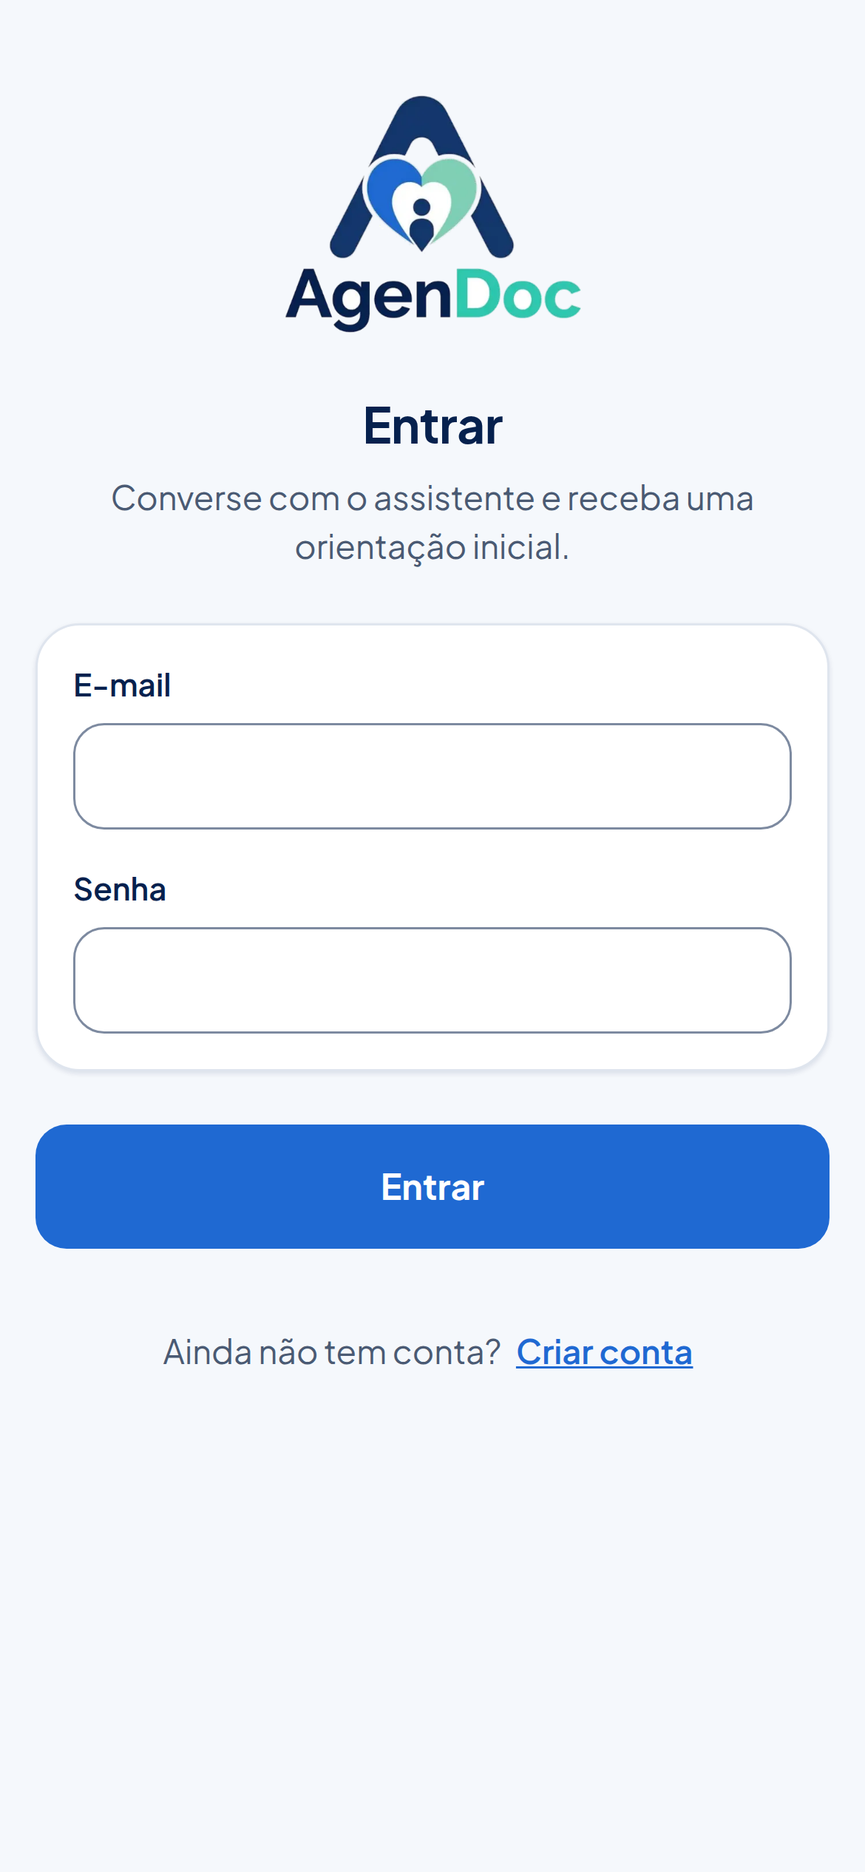
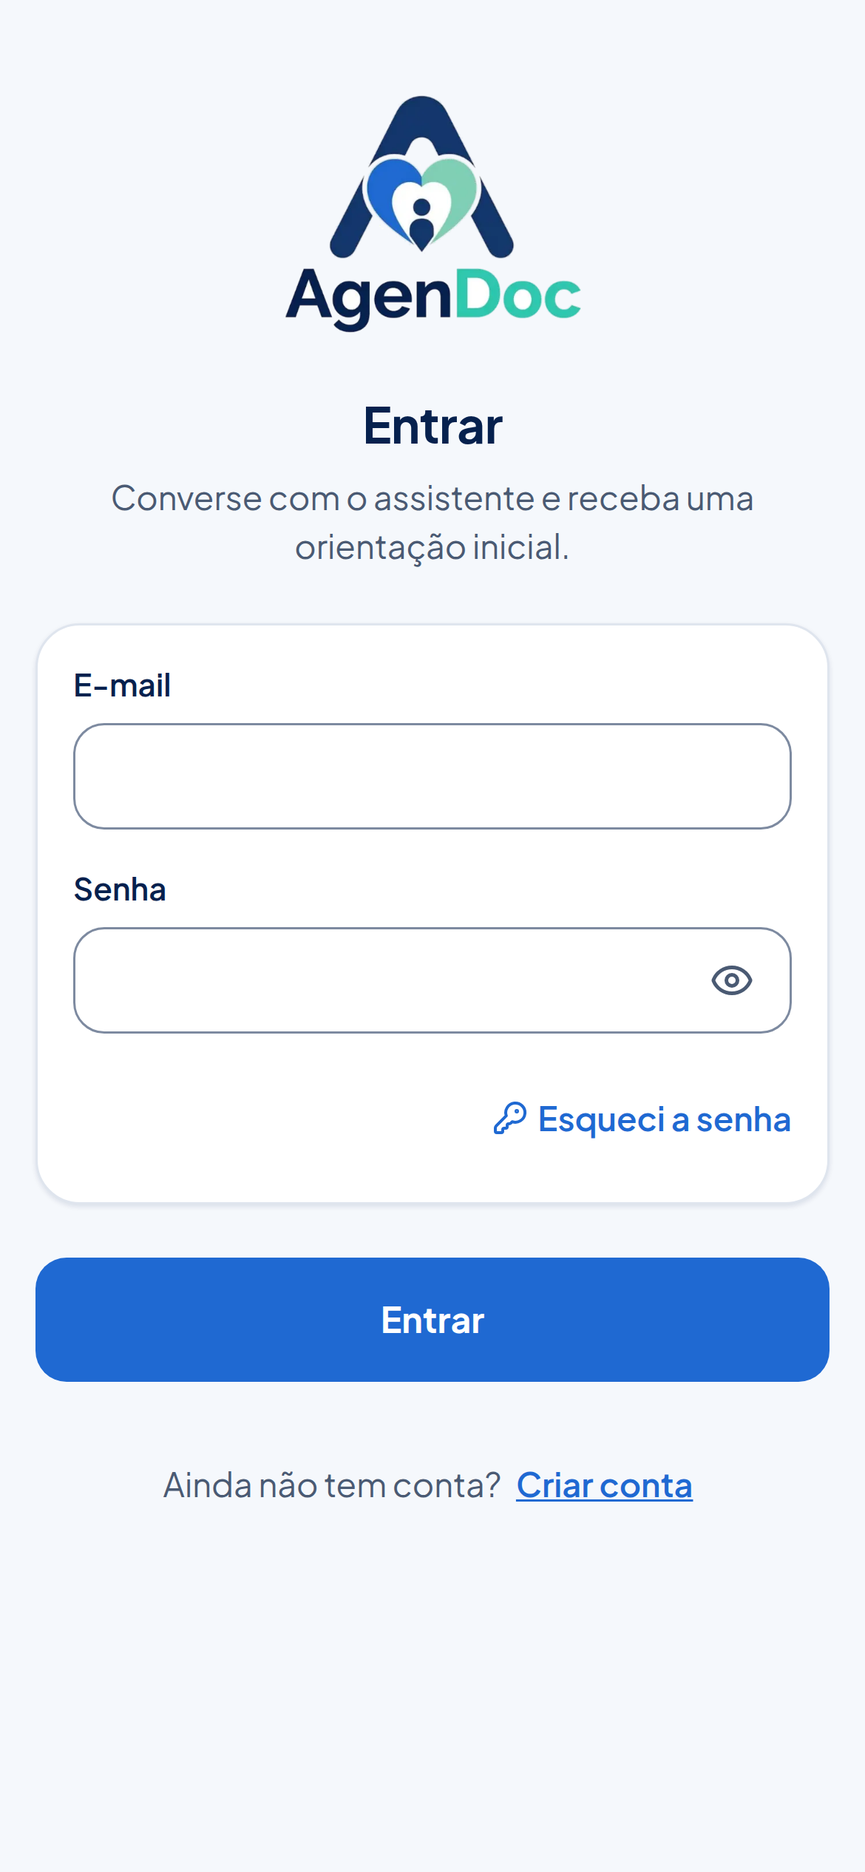
docs: cover part 2 e-mail features in the guide

Changed region(s): [[0.0308, 0.5616, 0.9846, 0.7488], [0.1846, 0.78, 0.8, 0.8112], [0.8308, 0.4992, 0.8615, 0.5304]]

diff --git a/guia/README.md b/guia/README.md
@@ -2,9 +2,9 @@
 
 Tutorial do que o AgenDoc já faz, tela por tela, para quem está chegando no grupo.
 
-- **Situação em 11/11/2026:** MVP (cadastro, login e chat com IA) e **Parte 1: Clínicas e agendamento**, no ar desde 09/11/2026. A Parte 2 (e-mail) está em andamento e ainda não aparece aqui ([roadmap](../roadmap.md)).
+- **Situação em 16/11/2026:** MVP (cadastro, login e chat com IA), **Parte 1: Clínicas e agendamento** (no ar desde 09/11/2026) e **Parte 2: E-mail** (no ar desde 15/11/2026). Próximos passos no [roadmap](../roadmap.md).
 - **Onde testar:** https://agendoc.duckdns.org (veja [Como testar](#como-testar)).
-- **Sobre as imagens:** foram tiradas do app rodando localmente, com os dados de demonstração. As telas do paciente são de celular (390 px, em 3x) e as do painel da clínica são de computador (1440 px, em 2x). Clique em qualquer imagem para abrir em tamanho real.
+- **Sobre as imagens:** foram tiradas do app rodando localmente, com os dados de demonstração. As telas do paciente são de celular (390 px, em 3x) e as do painel da clínica são de computador (1440 px, em 2x). Os e-mails foram capturados no Mailpit, a caixa de e-mail de teste do ambiente local. Clique em qualquer imagem para abrir em tamanho real.
 
 > **Aviso:** o AgenDoc não substitui atendimento profissional. O assistente dá uma orientação inicial: não diagnostica nem prescreve. Todas as clínicas, médicos e avaliações são **fictícios** (por isso o selo "Dados de demonstração").
 
@@ -13,7 +13,7 @@ Tutorial do que o AgenDoc já faz, tela por tela, para quem está chegando no gr
 - [Visão geral](#visão-geral)
 - [Como testar](#como-testar)
 - **Paciente**
-  1. [Cadastro e login](#1-cadastro-e-login)
+  1. [Cadastro, confirmação do e-mail e login](#1-cadastro-confirmação-do-e-mail-e-login)
   2. [Conversas com o assistente](#2-conversas-com-o-assistente)
   3. [Pré-triagem](#3-pré-triagem)
   4. [Emergência](#4-emergência)
@@ -27,6 +27,7 @@ Tutorial do que o AgenDoc já faz, tela por tela, para quem está chegando no gr
   12. [Cancelar](#12-cancelar)
   13. [Avaliar a consulta](#13-avaliar-a-consulta)
   14. [Perfil](#14-perfil)
+  15. [E-mails](#15-e-mails)
 - **Clínica**
   1. [Agenda](#1-agenda)
   2. [Detalhe da consulta](#2-detalhe-da-consulta)
@@ -45,16 +46,17 @@ O AgenDoc ajuda a pessoa a entender **que tipo de médico procurar** e a **marca
 
 | Perfil | Onde | O que faz |
 |---|---|---|
-| **Paciente** | `/chat`, `/consultas`, `/perfil` (layout de celular) | Conversa com o assistente, recebe a pré-triagem, busca clínicas, marca, remarca, cancela e avalia consultas |
+| **Paciente** | `/chat`, `/consultas`, `/perfil` (layout de celular) | Conversa com o assistente, recebe a pré-triagem, busca clínicas, marca, remarca, cancela e avalia consultas, e recebe os avisos e lembretes por e-mail |
 | **Clínica** | `/clinica` (layout de computador, com menu lateral) | Vê a agenda, responde pedidos, cadastra médicos, horários e bloqueios, edita os dados e vê as avaliações |
 
-Depois do login, quem é paciente vai para `/chat` e quem é clínica vai para `/clinica`. Um perfil não acessa as telas do outro.
+Depois do login, quem é paciente vai para `/chat` (ou para `/confirmar-email`, se ainda não confirmou o e-mail) e quem é clínica vai para `/clinica`. Um perfil não acessa as telas do outro.
 
 A jornada completa:
 
 ```mermaid
 flowchart LR
-    A[Cadastro / login] --> B[Chat com o assistente]
+    A[Cadastro / login] --> V[Confirmar e-mail<br/>com o código]
+    V --> B[Chat com o assistente]
     B --> C{Pré-triagem}
     C -- emergência --> D[Ligar 192 e<br/>pronto atendimentos]
     C -- demais casos --> E[Buscar clínicas<br/>mapa e filtros]
@@ -87,7 +89,8 @@ Na tela, os status aparecem como selos: **Confirmada**, **Aguardando a clínica*
 
 **Em produção** (https://agendoc.duckdns.org):
 
-- **Paciente:** crie uma conta em "Criar conta". Não precisa de e-mail real.
+- **Paciente:** crie uma conta em "Criar conta" com um **e-mail que você consegue abrir**: o app só libera depois que você digita o código de 6 dígitos que chega nele (veja o [passo 1](#1-cadastro-confirmação-do-e-mail-e-login)).
+- **Contas de teste de paciente:** `paciente1@demo.agendoc.dev`, `paciente2@demo.agendoc.dev` e `paciente3@demo.agendoc.dev`, já confirmadas. A senha é a mesma para as três e fica só no `.env` da VM; peça a quem cuida do deploy. Antes de apresentar, coloque o seu e-mail no campo **E-mail de envio** do [Perfil](#14-perfil): os e-mails dessas contas vão para lá, e ao marcar uma consulta chega na hora um lembrete de exemplo.
 - **Clínica:** cada clínica de demonstração tem um login `<apelido>@demo.agendoc.dev`. A senha é a mesma para todas e fica só no `.env` da VM (não vai para o git); peça a quem cuida do deploy.
 
 | Login | Clínica | Confirmação |
@@ -107,23 +110,63 @@ Na tela, os status aparecem como selos: **Confirmada**, **Aguardando a clínica*
 
 Dica para a demonstração: marque uma consulta como paciente numa clínica **manual** (ex.: DermaVida, Dermatologista) e depois entre como a clínica para aceitar o pedido.
 
-**Localmente:** siga o README de cada repositório ([`agendoc-api`](https://github.com/Agendoc/agendoc-api#rodando-localmente) e [`agendoc-web`](https://github.com/Agendoc/agendoc-web)). Sem chave de IA, o assistente roda em **modo simulação**: as respostas começam com "⚠ Modo simulação" e a pré-triagem sai na terceira mensagem. Escrever `#emergencia` numa mensagem gera uma triagem de emergência. Algumas imagens deste guia foram tiradas nesse modo.
+**Localmente:** siga o README de cada repositório ([`agendoc-api`](https://github.com/Agendoc/agendoc-api#rodando-localmente) e [`agendoc-web`](https://github.com/Agendoc/agendoc-web)). Sem chave de IA, o assistente roda em **modo simulação**: as respostas começam com "⚠ Modo simulação" e a pré-triagem sai na terceira mensagem. Escrever `#emergencia` numa mensagem gera uma triagem de emergência. Algumas imagens deste guia foram tiradas nesse modo. O `docker compose` local também sobe o **Mailpit**, que segura todos os e-mails (nada sai de verdade) e mostra em http://localhost:8025. As contas de teste só são criadas com `DEMO_PATIENT_PASSWORD` definida, como os logins de clínica com `DEMO_CLINIC_PASSWORD`.
 
 ---
 
 # Paciente
 
-## 1. Cadastro e login
+## 1. Cadastro, confirmação do e-mail e login
 
-Na primeira tela a pessoa entra com e-mail e senha ou cria uma conta. O cadastro pede só **nome, e-mail e senha** (8 a 72 caracteres) e já entra no app.
+Na primeira tela a pessoa entra com e-mail e senha ou cria uma conta. O cadastro pede só **nome, e-mail e senha** (8 a 72 caracteres). Os campos de senha têm o botão do **olhinho**, que mostra ou esconde o que foi digitado (na imagem da direita a senha está visível).
 
 <p align="center">
-  <a href="img/paciente/01-login.png"><img src="img/paciente/01-login.png" width="270" alt="Tela de login"></a>
+  <a href="img/paciente/01-login.png"><img src="img/paciente/01-login.png" width="270" alt="Tela de login com o link Esqueci a senha"></a>
   &nbsp;&nbsp;
-  <a href="img/paciente/02-cadastro.png"><img src="img/paciente/02-cadastro.png" width="270" alt="Tela de cadastro preenchida"></a>
+  <a href="img/paciente/02-cadastro.png"><img src="img/paciente/02-cadastro.png" width="270" alt="Tela de cadastro preenchida, com a senha visível"></a>
 </p>
 
 A sessão fica num cookie do servidor (não há token no navegador). O botão **Sair** fica no topo das telas do paciente.
+
+### Confirme seu e-mail
+
+Depois do cadastro, a pessoa cai na tela **Confirme seu e-mail** (`/confirmar-email`) e recebe um e-mail com um **código de 6 dígitos** ([veja o e-mail](#15-e-mails)). Até digitar o código, o app fica **bloqueado**: chat, busca, consultas e perfil não abrem. Quem sair e entrar de novo sem ter confirmado volta para esta tela.
+
+- O código vale **15 minutos** e aceita até **5 tentativas erradas**; depois disso é preciso pedir outro.
+- **Reenviar código** manda um código novo (o anterior deixa de valer). Entre um pedido e outro há uma espera de 60 segundos, com contagem regressiva no botão, e o limite é de 5 por hora.
+- O ícone de sair, embaixo, encerra a sessão (por exemplo, para quem digitou o e-mail errado e quer criar outra conta).
+
+<p align="center">
+  <a href="img/paciente/29-confirmar-email.png"><img src="img/paciente/29-confirmar-email.png" width="270" alt="Tela Confirme seu e-mail com o código digitado"></a>
+</p>
+
+Contas criadas antes da Parte 2, logins de clínica e as contas de teste já nascem confirmados. A confirmação vale só para pacientes.
+
+### Esqueci a senha
+
+O link **Esqueci a senha**, no login, abre `/esqueci-senha`, uma recuperação em **3 telas**, sempre por código (nunca por link):
+
+1. **E-mail:** a pessoa informa o e-mail da conta. A resposta é sempre a mesma, exista a conta ou não, para não revelar quem tem cadastro.
+2. **Código:** digita o código de 6 dígitos que chegou no e-mail. Dá para reenviar o código ou trocar o e-mail.
+3. **Nova senha:** cria a nova senha e confirma (com o olhinho nos dois campos).
+
+<p align="center">
+  <a href="img/paciente/30-esqueci-email.png"><img src="img/paciente/30-esqueci-email.png" width="200" alt="Esqueci a senha, passo 1: e-mail"></a>
+  &nbsp;
+  <a href="img/paciente/31-esqueci-codigo.png"><img src="img/paciente/31-esqueci-codigo.png" width="200" alt="Esqueci a senha, passo 2: código"></a>
+  &nbsp;
+  <a href="img/paciente/32-esqueci-nova-senha.png"><img src="img/paciente/32-esqueci-nova-senha.png" width="200" alt="Esqueci a senha, passo 3: nova senha"></a>
+  &nbsp;
+  <a href="img/paciente/33-senha-alterada.png"><img src="img/paciente/33-senha-alterada.png" width="200" alt="Login com a mensagem Senha alterada"></a>
+</p>
+
+No fim, a pessoa volta para o login (`/login?senha=alterada`) com a mensagem "Senha alterada. Entre com a nova senha." Não há login automático. Trocar a senha:
+
+- encerra **todas as sessões abertas** da conta;
+- marca o e-mail como confirmado (assim, quem teve o e-mail usado por outra pessoa num cadastro recupera a conta por aqui);
+- manda o e-mail **"Sua senha foi alterada"**, com a orientação de procurar ajuda se não foi a pessoa.
+
+O e-mail e o código nunca vão para a URL: recarregar a página volta para a primeira tela. Por segurança, qualquer falha na troca (código errado, vencido ou de uma conta que não existe) aparece só como "Código incorreto."
 
 ## 2. Conversas com o assistente
 
@@ -216,12 +259,15 @@ A última etapa (passo 4 de 4) revisa tudo:
 - **Resumo:** médico, clínica, data, hora, CRM, duração e endereço.
 - **Pagamento:** convênio (só os que a clínica aceita, com carteirinha opcional) ou particular, com o valor.
 - **Pré-triagem:** a caixa "Compartilhar o resumo da pré-triagem com a clínica" vem **desmarcada** (consentimento da LGPD). Vão só os sintomas relatados, a condição provável e a urgência; **a conversa nunca é enviada**.
-- **Lembretes:** e-mail (o envio chega na Parte 2) e WhatsApp "Em breve".
+- **Lembretes:** o Switch **Lembrete por e-mail** e, abaixo dele, os horários em que o lembrete chega: **1 semana**, **1 dia**, **2 h** e **1 h** antes. Dá para marcar mais de um; o padrão é **1 dia e 2 h**. Com o Switch ligado, é preciso escolher ao menos um. Horários que já teriam passado (ex.: "1 semana" numa consulta daqui a 3 dias) ficam desabilitados. O WhatsApp aparece como "Em breve".
+- **Conta de teste:** aparece a linha "Conta de teste: você também recebe agora um exemplo do lembrete" (veja [E-mails](#15-e-mails)).
 - O botão diz **"Confirmar agendamento"** (clínica automática) ou **"Solicitar horário"** (clínica manual).
 
 <p align="center">
-  <a href="img/paciente/14-confirmar.png"><img src="img/paciente/14-confirmar.png" width="300" alt="Tela de confirmação"></a>
+  <a href="img/paciente/14-confirmar.png"><img src="img/paciente/14-confirmar.png" width="300" alt="Tela de confirmação com os horários do lembrete"></a>
 </p>
+
+A imagem é de uma conta de teste, numa consulta daqui a 9 dias: os quatro horários estão disponíveis e "1 dia" e "2 h" já vêm marcados.
 
 Se outra pessoa pegar o mesmo horário no mesmo instante, a segunda recebe a mensagem de que o horário acabou de ser ocupado e a grade atualizada.
 
@@ -245,6 +291,8 @@ Depois de confirmar, a tela mostra:
 </p>
 
 Da esquerda para a direita: consulta confirmada na hora, pedido aguardando a clínica e o mesmo pedido depois que a clínica aceitou.
+
+Ao mesmo tempo chega o e-mail **"Consulta marcada"** (ou **"Solicitação enviada"**, na clínica manual), com o resumo da pré-triagem quando a consulta veio do chat. Quando a clínica responde ao pedido, chega outro e-mail. Veja todos em [E-mails](#15-e-mails).
 
 ## 9. Minhas consultas
 
@@ -284,6 +332,8 @@ Mostra o **horário atual** e a grade de horários da **mesma clínica e especia
 
 Em clínica manual, o novo horário vira um pedido e o antigo **continua confirmado** até a clínica aceitar. Se ela recusar ou não responder, a consulta original continua valendo.
 
+A remarcação manda o e-mail **"Consulta remarcada"**, com o horário anterior e o novo, e os lembretes escolhidos passam para o novo horário.
+
 ## 12. Cancelar
 
 O cancelamento pede confirmação na própria tela ("O horário fica livre para outra pessoa"). Depois, a consulta aparece como **Cancelada** e vai para Anteriores.
@@ -318,7 +368,56 @@ Nome (só leitura), **telefone**, **endereço** e **convênio** com o número da
 
 <p align="center">
   <a href="img/paciente/28-perfil.png"><img src="img/paciente/28-perfil.png" width="270" alt="Perfil do paciente"></a>
+  &nbsp;&nbsp;
+  <a href="img/paciente/34-perfil-conta-teste.png"><img src="img/paciente/34-perfil-conta-teste.png" width="270" alt="Perfil de uma conta de teste com o campo E-mail de envio"></a>
 </p>
+
+**Só nas contas de teste** (`paciente1..3@demo.agendoc.dev`, imagem da direita) aparece a seção **Conta de teste** com o campo **E-mail de envio**: "os e-mails desta conta vão para este endereço". Como esses e-mails `@demo.agendoc.dev` não existem, é por esse campo que quem apresenta recebe os e-mails da conta (consultas, lembretes e o código de "Esqueci a senha") na própria caixa de entrada. Sem o campo preenchido, nada é enviado. O campo é opcional, não pede confirmação e **nunca aparece nem é aceito** para contas normais.
+
+## 15. E-mails
+
+O paciente recebe e-mails em pt-BR, nas cores do app, com o logo no topo e o botão **Ver consulta**, que abre a consulta no app. Contas normais recebem no e-mail do login; contas de teste, no "E-mail de envio". Em produção os e-mails saem da conta `agendoc.app@gmail.com`; localmente, ficam no Mailpit.
+
+[![Caixa do Mailpit com os e-mails de uma conta de teste](img/email/00-mailpit.png)](img/email/00-mailpit.png)
+
+| E-mail | Quando chega |
+|---|---|
+| **Seu código AgenDoc: 123456** | No cadastro e a cada "Reenviar código" na tela Confirme seu e-mail |
+| **Seu código para redefinir a senha: 123456** | Em "Esqueci a senha" |
+| **Sua senha foi alterada** | Depois de trocar a senha |
+| **Consulta marcada** ou **Solicitação enviada** | Ao marcar (clínica automática ou manual) |
+| **Consulta remarcada** | Ao remarcar |
+| **Consulta confirmada**, **Solicitação recusada**, **Solicitação expirada** ou **Consulta cancelada pela clínica** | Quando a clínica aceita ou recusa o pedido, quando o pedido expira sem resposta e quando a clínica cancela (com o motivo, também nos cancelamentos por [bloqueio](#6-bloqueios)) |
+| **Lembrete: consulta amanhã às 14:00** | Nos horários escolhidos na confirmação, só se a consulta ainda estiver confirmada |
+| **[Exemplo] Lembrete: ...** | Na hora em que uma conta de teste marca a consulta com o lembrete ligado |
+
+Os códigos aparecem numa caixa destacada e valem 15 minutos:
+
+<p align="center">
+  <a href="img/email/01-codigo-confirmacao.png"><img src="img/email/01-codigo-confirmacao.png" width="270" alt="E-mail com o código de confirmação"></a>
+  &nbsp;&nbsp;
+  <a href="img/email/02-codigo-senha.png"><img src="img/email/02-codigo-senha.png" width="270" alt="E-mail com o código para redefinir a senha"></a>
+</p>
+
+O e-mail **Consulta marcada** traz clínica, médico, especialidade, data e hora, endereço, status e pagamento. Se a consulta veio do chat, traz também a **pré-triagem**: condição provável, especialidade, urgência, o resumo do que a pessoa relatou e as recomendações. Esse resumo vai para o próprio paciente mesmo que ele não tenha compartilhado com a clínica; a conversa nunca vai. No fim vêm os sinais de alerta ("Se piorar"), o 192 e o aviso de que são orientações gerais, que não substituem a avaliação médica.
+
+<p align="center">
+  <a href="img/email/03-consulta-marcada.png"><img src="img/email/03-consulta-marcada.png" width="300" alt="E-mail Consulta marcada com a pré-triagem"></a>
+</p>
+
+O **lembrete** tem data e hora, clínica, endereço, link **Ver rota no mapa** e a orientação de chegar com antecedência. Nas contas de teste, ao marcar, chega na hora um **exemplo** do primeiro lembrete escolhido, com "[Exemplo]" no assunto e a faixa "Exemplo: é assim que você receberá o lembrete 1 dia antes da consulta". Assim dá para mostrar o lembrete numa apresentação sem esperar um dia. Os lembretes de verdade continuam agendados.
+
+<p align="center">
+  <a href="img/email/04-lembrete-exemplo.png"><img src="img/email/04-lembrete-exemplo.png" width="250" alt="E-mail de exemplo do lembrete"></a>
+  &nbsp;
+  <a href="img/email/05-remarcada.png"><img src="img/email/05-remarcada.png" width="250" alt="E-mail Consulta remarcada"></a>
+  &nbsp;
+  <a href="img/email/06-clinica-aceitou.png"><img src="img/email/06-clinica-aceitou.png" width="250" alt="E-mail Consulta confirmada, depois que a clínica aceitou o pedido"></a>
+</p>
+
+Da esquerda para a direita: o exemplo do lembrete, a remarcação (horário anterior e novo) e a resposta da clínica DermaVida (manual) aceitando o pedido. A clínica não recebe e-mails nesta parte.
+
+> Nas imagens, o assistente estava em modo simulação, por isso o "relato" no e-mail não bate com as mensagens da conversa.
 
 ---
 
@@ -340,7 +439,7 @@ Ao clicar numa consulta, o painel da direita mostra o paciente (nome, telefone c
 
 Ações disponíveis:
 
-- **Cancelar consulta** (antes do horário, com motivo obrigatório, que o paciente vê);
+- **Cancelar consulta** (antes do horário, com motivo obrigatório, que o paciente vê no app e recebe por e-mail);
 - **Marcar como realizada** ou **Faltou** (só depois que a consulta começou).
 
 [![Consulta passada com Marcar como realizada e Faltou](img/clinica/03-marcar-realizada.png)](img/clinica/03-marcar-realizada.png)
@@ -350,6 +449,8 @@ Ações disponíveis:
 Só aparece movimento aqui nas clínicas com **confirmação manual**. É a lista de pedidos de horário e de remarcação que esperam resposta, com o prazo de cada um. O menu mostra quantos estão aguardando.
 
 [![Solicitações pendentes com Aceitar e Recusar](img/clinica/04-solicitacoes.png)](img/clinica/04-solicitacoes.png)
+
+Aceitar, recusar ou deixar o pedido expirar manda um e-mail para o paciente ([E-mails](#15-e-mails)). O mesmo vale quando a clínica cancela uma consulta: o paciente recebe o motivo por e-mail.
 
 Regra do prazo: a clínica deve responder **até o fim do próximo dia de atendimento do médico**. Depois disso o pedido fica "atrasado" (com destaque vermelho), mas ainda pode ser aceito. Ele só **expira 2 h antes da consulta**. Assim, um pedido feito na sexta à noite não se perde no fim de semana.
 
@@ -415,6 +516,12 @@ Somente leitura: a nota média, o total e os comentários, **anônimos** como o 
 | Consulta que já passou | Aparece como "Encerrada" até a clínica marcar realizada ou falta |
 | Avaliação | Só de consulta realizada, só pelo próprio paciente, uma vez, anônima |
 | Pré-triagem para a clínica | Só com o consentimento marcado na confirmação; vai uma cópia do resumo, nunca o chat |
+| Confirmação do e-mail | Paciente não confirmado fica preso na tela Confirme seu e-mail até digitar o código |
+| Códigos (confirmação e senha) | 6 dígitos, valem 15 min, até 5 tentativas erradas; reenvio a cada 60 s, no máximo 5 por hora. Um código novo invalida o anterior |
+| Esqueci a senha | Nunca revela se o e-mail tem conta; trocar a senha encerra todas as sessões |
+| E-mail de envio | Só para as contas de teste; contas normais nunca veem nem podem salvar o campo |
+| Lembretes | Só para consulta confirmada; cada um sai no máximo uma vez; um lembrete atrasado mais de 10 min (ex.: API fora do ar) é pulado, nunca enviado atrasado |
+| Falha de e-mail | Nunca impede cadastrar, marcar, remarcar ou responder um pedido: o e-mail sai depois, em segundo plano |
 | Isolamento | Paciente só vê o que é dele; clínica só vê o que é dela. Recurso de outro dono responde 404 |
 | Fuso | Tudo exibido em horário de São Paulo e guardado em UTC |
 
@@ -424,7 +531,10 @@ Coisas que não têm tela, mas fazem parte do que foi entregue:
 
 - **Criação de clínicas:** endpoint de admin (`POST /api/admin/clinics`, documentado no Swagger), que cria a clínica e o login dela e devolve a senha inicial uma única vez. Não há tela de admin.
 - **Dados de demonstração:** 12 clínicas fictícias em São Paulo (Paulista, Pinheiros e Vila Mariana), cobrindo as 15 especialidades, mais 4 pronto atendimentos 24 h e avaliações iniciais. CRMs no formato `DEMO-0000` para não parecerem reais.
-- **Expiração automática:** um job muda para "Expirou" os pedidos não respondidos até 2 h antes da consulta.
+- **Contas de teste de paciente:** o seed cria `paciente1..3@demo.agendoc.dev` (já confirmadas) quando `DEMO_PATIENT_PASSWORD` está definida, mesmo num banco que já tem clínicas.
+- **Expiração automática:** um job muda para "Expirou" os pedidos não respondidos até 2 h antes da consulta e avisa o paciente por e-mail.
+- **Lembretes:** uma tarefa roda a cada minuto e envia os lembretes cujo horário chegou. Cada lembrete guarda o canal (por enquanto só e-mail), para o WhatsApp entrar depois sem refazer o modelo.
+- **Envio de e-mail:** SMTP configurado por variáveis de ambiente. Em produção, Gmail (`agendoc.app@gmail.com`, porta 587, senha de app só no `.env` da VM); localmente, o Mailpit do `compose.yaml`.
 - **Stack:** API em Java 21 + Spring Boot 4 + MySQL ([`agendoc-api`](https://github.com/Agendoc/agendoc-api)) e web em Next.js 16 + React 19 ([`agendoc-web`](https://github.com/Agendoc/agendoc-web)). O contrato completo da API está no README da API e no Swagger.
 - **Deploy:** merge na `main` dispara o CI, que publica na VM sozinho. Detalhes em [`agendoc-api/docs/deploy.md`](https://github.com/Agendoc/agendoc-api/blob/main/docs/deploy.md).
-- **Mais detalhes de produto:** [spec da Parte 1](../specs/2026-11-01-clinics-scheduling-design.md), [redesenho do painel](../specs/2026-11-08-clinic-panel-v2-design.md) e [roadmap](../roadmap.md).
+- **Mais detalhes de produto:** [spec da Parte 1](../specs/2026-11-01-clinics-scheduling-design.md), [redesenho do painel](../specs/2026-11-08-clinic-panel-v2-design.md), [spec da Parte 2](../specs/2026-11-09-email-design.md) e [roadmap](../roadmap.md).
